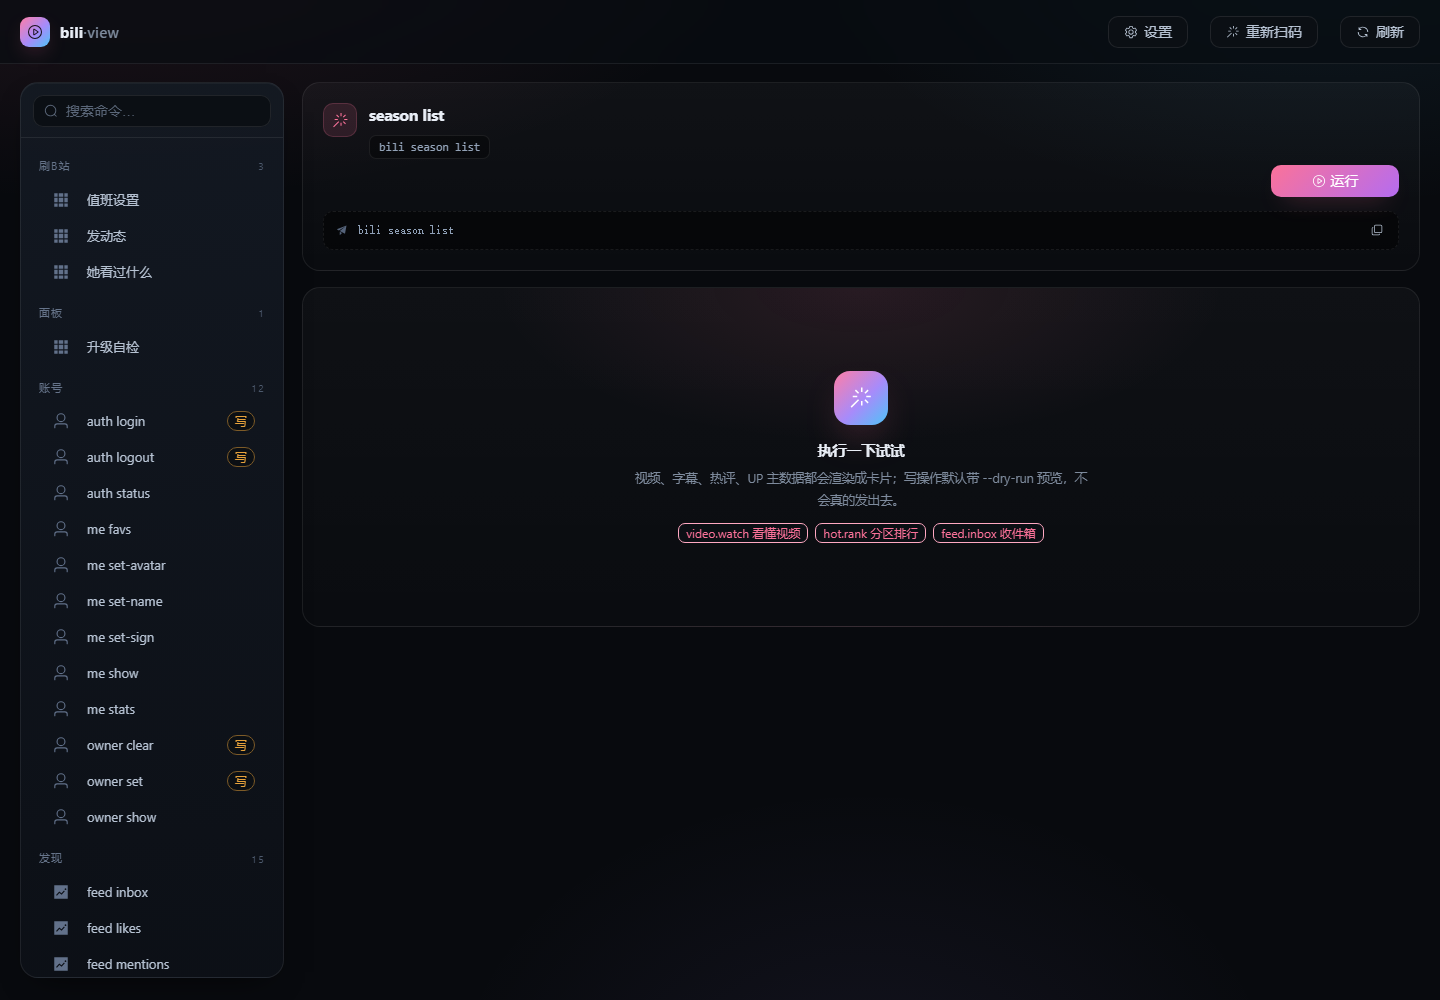
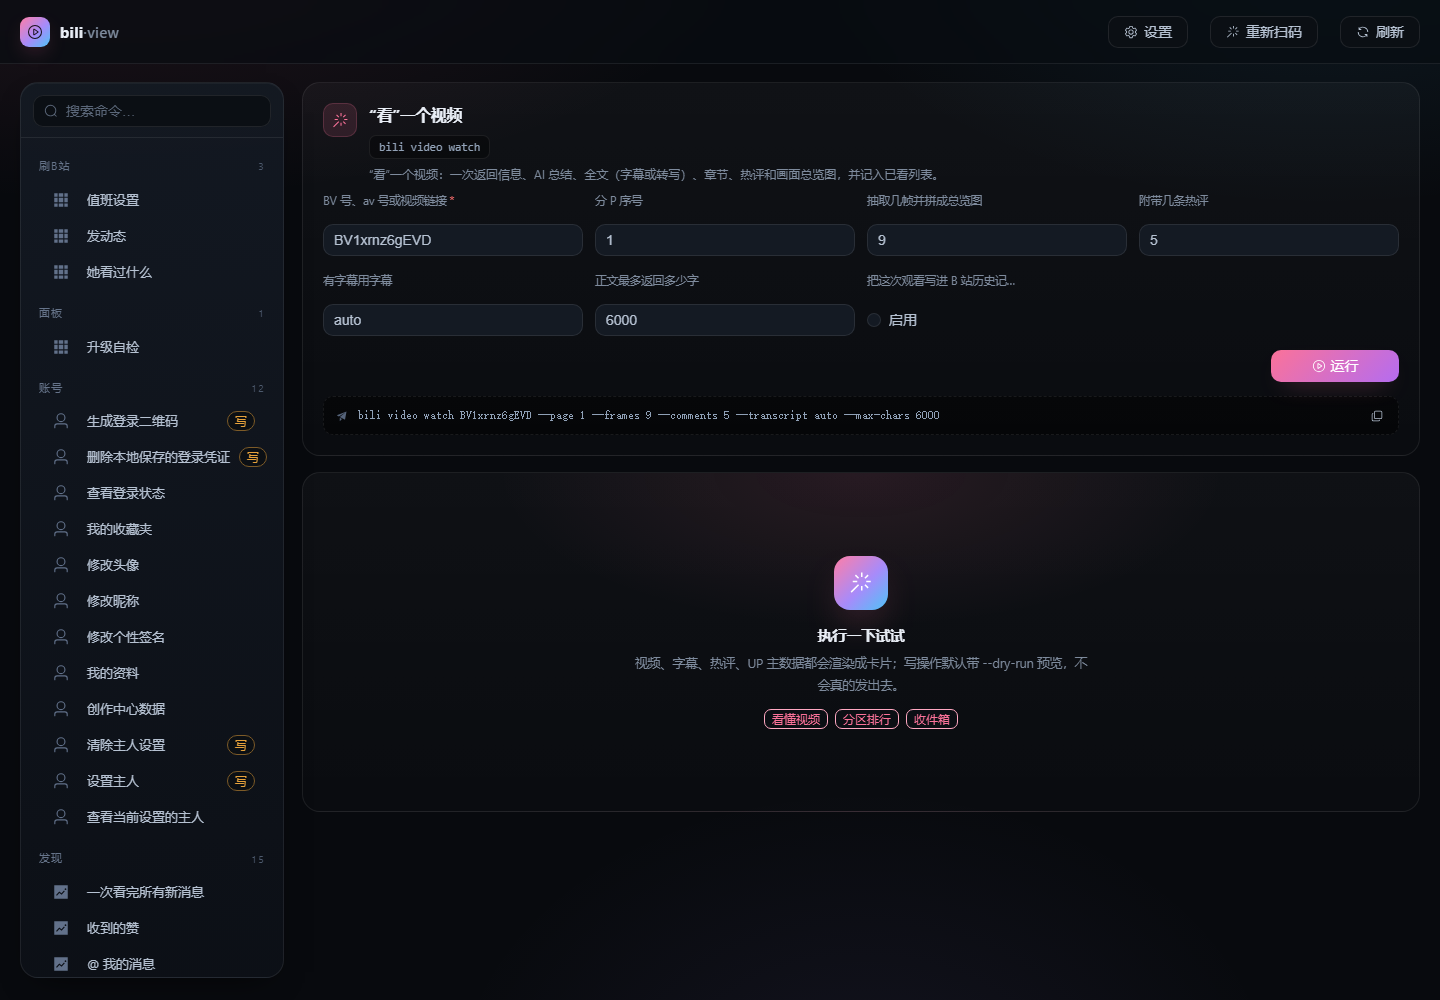
feat(catalog): 命令和参数全部中文化
- 侧栏用 bili schema 的 help 首句当标签（去括号、截断加省略号）
- 参数标签同样取 help，带英文枚举（auto/hd…）的剥掉枚举词
- 少量纯英文参数（engine/model/provider…）用字典兜底，现在纯英文 0 条
- 命令面板标题下补一行中文说明，hover 侧栏可见英文命令名
- 空状态示例标签也改成中文

diff --git a/src/components/SidebarNav.vue b/src/components/SidebarNav.vue
@@ -36,7 +36,10 @@ const filtered = computed(() => {
     .map((g) => ({
       ...g,
       items: g.items.filter(
-        (i) => i.label.toLowerCase().includes(q) || i.argv.join(' ').toLowerCase().includes(q),
+        (i) =>
+          i.label.toLowerCase().includes(q) ||
+          (i.cmd ?? i.argv.join(' ')).toLowerCase().includes(q) ||
+          (i.desc ?? '').toLowerCase().includes(q),
       ),
     }))
     .filter((g) => g.items.length > 0)
@@ -69,7 +72,7 @@ const total = computed(() => props.groups.reduce((n, g) => n + g.items.length, 0
             @click="emit('select', item)"
           >
             <el-icon class="ico"><component :is="GROUP_ICON[group.group] ?? Grid" /></el-icon>
-            <span>{{ item.label }}</span>
+            <span :title="item.cmd ?? item.argv.join(' ')">{{ item.label }}</span>
             <el-tag v-if="item.write" size="small" type="warning" effect="plain" round style="margin-left: auto">
               写
             </el-tag>

diff --git a/src/App.vue b/src/App.vue
@@ -173,9 +173,9 @@ onMounted(async () => {
                 视频、字幕、热评、UP 主数据都会渲染成卡片；写操作默认带 --dry-run 预览，不会真的发出去。
               </p>
               <div style="display: flex; gap: 7px; flex-wrap: wrap; justify-content: center">
-                <el-tag effect="plain" size="small">video.watch 看懂视频</el-tag>
-                <el-tag effect="plain" size="small">hot.rank 分区排行</el-tag>
-                <el-tag effect="plain" size="small">feed.inbox 收件箱</el-tag>
+                <el-tag effect="plain" size="small">看懂视频</el-tag>
+                <el-tag effect="plain" size="small">分区排行</el-tag>
+                <el-tag effect="plain" size="small">收件箱</el-tag>
               </div>
             </div>
 

diff --git a/src/components/CommandRunner.vue b/src/components/CommandRunner.vue
@@ -91,6 +91,7 @@ onMounted(() => {
           <el-tag v-if="item.write" type="warning" effect="plain" size="small" round>写操作</el-tag>
         </div>
         <div class="cmd-chip" style="margin-top: 7px">bili {{ item.argv.join(' ') }}</div>
+        <div v-if="item.desc" class="muted" style="margin-top: 6px; line-height: 1.6">{{ item.desc }}</div>
       </div>
     </div>
 

diff --git a/src/types.ts b/src/types.ts
@@ -15,6 +15,8 @@ export interface CommandItem {
   argv: string[]
   write?: boolean
   kind?: string
+  cmd?: string
+  desc?: string
   params?: Param[]
 }
 

diff --git a/backend/app/schema_catalog.py b/backend/app/schema_catalog.py
@@ -6,6 +6,7 @@
 """
 from __future__ import annotations
 
+import re
 import time
 from typing import Any
 
@@ -37,6 +38,45 @@ def _is_write(path: str) -> bool:
     return any(part in WRITE_VERBS for part in path.split()[1:])
 
 
+def _label(help_text: str, raw: str) -> str:
+    """中文短标签：去掉括号说明，取第一句，超长截断加省略号。"""
+    text = (help_text or "").strip().replace("\n", " ")
+    if not text:
+        return raw
+    text = re.sub(r"[（(][^）)]*[）)]", "", text)          # 去掉"（不会使服务器登出）"这类补充
+    first = re.split(r"[。；;：:，,]", text)[0].strip(" 　·-")
+    if len(first) > 12:
+        first = first[:12] + "…"
+    return first or raw
+
+
+PARAM_LABELS = {
+    "engine": "引擎", "kind": "类型", "status": "状态", "style": "样式",
+    "provider": "服务商", "base-url": "接口地址", "base_url": "接口地址",
+    "model": "模型", "device": "设备", "who": "谁", "uid": "UID",
+    "bvid": "BV 号", "keyword": "关键词", "text": "正文", "num": "条数",
+    "page": "页码", "pn": "页码", "ps": "每页条数", "order": "排序",
+}
+
+
+def _plabel(help_text: str, fallback: str) -> str:
+    """参数的中文标签：取 help 第一句，去掉括号说明，最多 14 个字。"""
+    fb = PARAM_LABELS.get(fallback, fallback)
+    text = (help_text or "").strip().replace("\n", " ")
+    if not text:
+        return fb
+    text = re.sub(r"[（(][^）)]*[）)]", "", text)
+    # "auto 字幕…" 这类开头是取值枚举，把枚举词去掉；"BV 号" 这种要留着
+    text = re.sub(r"^(auto|hd|preview|all|default|both)[ 　：:]*", "", text, flags=re.I)
+    first = re.split(r"[。；;：:，,]", text)[0].strip(" 　·-")
+    # 还是纯英文就别用它，退回参数名更有辨识度
+    if first.isascii():
+        return fb
+    if len(first) > 14:
+        first = first[:14] + "…"
+    return first or fb
+
+
 def _param(spec: dict[str, Any]) -> dict[str, Any] | None:
     name = spec.get("name") or ""
     if not name:
@@ -49,7 +89,7 @@ def _param(spec: dict[str, Any]) -> dict[str, Any] | None:
 
     if kind == "argument":
         return {
-            "key": name, "label": name, "pos": True, "flag": None,
+            "key": name, "label": _plabel(help_text, name), "pos": True, "flag": None,
             "type": "int" if ptype == "int" else "text",
             "default": "" if default is None else str(default),
             "choices": [], "ph": help_text[:40] or name,
@@ -58,11 +98,12 @@ def _param(spec: dict[str, Any]) -> dict[str, Any] | None:
     flag = flags[0] if flags else None
     if not flag:
         return None
+    label = _plabel(help_text, flag.lstrip("-"))
     if ptype in ("bool",) or isinstance(default, bool):
-        return {"key": name, "label": flag.lstrip("-"), "pos": False, "flag": flag,
+        return {"key": name, "label": label, "pos": False, "flag": flag,
                 "type": "bool", "default": "", "choices": [], "ph": help_text[:40]}
     return {
-        "key": name, "label": flag.lstrip("-"), "pos": False, "flag": flag,
+        "key": name, "label": label, "pos": False, "flag": flag,
         "type": "int" if ptype == "int" else "text",
         "default": "" if default is None else str(default),
         "choices": [], "ph": help_text[:40],
@@ -96,9 +137,10 @@ async def build() -> tuple[list[dict[str, Any]], str | None, bool]:
         params = [p for p in (_param(s) for s in (item.get("params") or [])) if p]
         buckets.setdefault(group, []).append({
             "id": raw.replace(" ", "."),
-            "label": raw,
+            "label": _label(str(item.get("help") or ""), raw),
+            "cmd": raw,
             "argv": argv,
-            "desc": str(item.get("help") or "")[:80],
+            "desc": str(item.get("help") or "").replace("\n", " ")[:120],
             "write": _is_write(raw),
             "params": params,
         })
